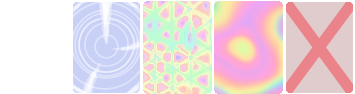
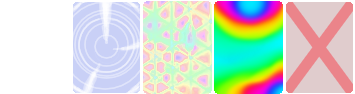
better polychrome + alpha mask

Changed region(s): [[0.5887, 0.0, 0.8056, 1.0]]

diff --git a/main.js b/main.js
@@ -343,6 +343,8 @@ const modifiers = {
 let modifierString = ', url(assets/Enhancers.png) -71px 0px';
 let modifierPostString = '';
 
+let modifierClass = '';
+
 const jmodifiers = {
   foil: false,
   holographic: false,
@@ -363,6 +365,8 @@ function jtoggleCardModifier(name) {
 }
 
 function setModifierString() {
+  modifierClass = '';
+
   if(modifiers.stone) {
     modifierString = ', url(assets/Enhancers.png) 142px 0';
   }
@@ -402,6 +406,7 @@ function setModifierString() {
     modifierPostString += 'url(assets/Editions.png) -142px 0, ';
   }
   else if(modifiers.polychrome) {
+    modifierClass = ' polychrome';
     modifierPostString += 'url(assets/Editions.png) -213px 0, ';
   }
   else if(modifiers.disabled) {
@@ -438,11 +443,11 @@ const jcardsDiv = document.getElementById('jokers');
 
 function cardString(i, j) {
   if(modifiers.stone) {
-    return `style="background: ` +
+    return `${modifierClass}" style="background: ` +
     `${modifierPostString}${modifierString.slice(2)}"`;
   }
   else {
-    return `style="background: ` +
+    return `${modifierClass}" style="background: ` +
     `${modifierPostString}url(assets/8BitDeck.png) ` +
     `-${71*j}px -${95*i}px${modifierString}"`;
   }
@@ -453,7 +458,7 @@ function redrawCards() {
   for(let i = 0; i < 4; i++) {
     txt += '<div>';
     for(let j = 0; j < 13; j++) {
-      txt += `<div class="tooltip"><div class="playingCard" ${cardString(i, j)} onclick="addCard(${i}, ${j})" onmousemove = 'hoverCard(event)' onmouseout = 'noHoverCard(event)'></div></div>`;
+      txt += `<div class="tooltip"><div class="playingCard${cardString(i, j)} onclick="addCard(${i}, ${j})" onmousemove = 'hoverCard(event)' onmouseout = 'noHoverCard(event)'></div></div>`;
     }
     txt += '</div>';
   }
@@ -461,6 +466,8 @@ function redrawCards() {
 }
 
 function jokerString(i, j, modifiers) {
+  let jmodifierClass = '';
+
   let jmodifierString = 'url(assets/Jokers.png) 0px -855px, ';
   let jmodifierPostString = '';
 
@@ -471,6 +478,7 @@ function jokerString(i, j, modifiers) {
     jmodifierPostString = 'url(assets/Editions.png) -142px 0, ';
   }
   else if(modifiers.polychrome) {
+    jmodifierClass = ' polychrome';
     jmodifierPostString = 'url(assets/Editions.png) -213px 0, ';
   }
   else if(modifiers.disabled) {
@@ -488,7 +496,7 @@ function jokerString(i, j, modifiers) {
     case '8,7': jmodifierString = `url(assets/Jokers.png) -${71*7}px -${95*9}px, `; break;
     case '12,4': jmodifierString = `url(assets/Jokers.png) -${71*2}px -${95*9}px, `; break;
   }
-  return `style="background: ${jmodifierPostString}${jmodifierString}url(assets/Jokers.png) -${71*j}px -${95*i}px"`;
+  return `${jmodifierClass}" style="mask-position:  -${71*j}px -${95*i}px; background: ${jmodifierPostString}${jmodifierString}url(assets/Jokers.png) -${71*j}px -${95*i}px"`;
 }
 
 function jredrawCards() {
@@ -500,7 +508,7 @@ function jredrawCards() {
       const title = (jokerTexts.length > i && jokerTexts[i].length > j) ? jokerTexts[i][j][0] : 'WIP';
       const description = (jokerTexts.length > i && jokerTexts[i].length > j) ? eval('`' + jokerTexts[i][j][1] + '`') : 'WIP';
       if(title.toLowerCase().indexOf(searchVal.toLowerCase()) >= 0 || description.replace(/\<[^\>]+\>/g,'').toLowerCase().indexOf(searchVal.toLowerCase()) >= 0) {
-        txt += `<div class='tooltip'><div class="jokerCard" ${jokerString(i, j, jmodifiers)} onclick="addJoker(${i}, ${j})" onmousemove = 'hoverCard(event)' onmouseout = 'noHoverCard(event)'></div><span class='tooltiptext'>` +
+        txt += `<div class='tooltip'><div class="jokerCard${jokerString(i, j, jmodifiers)} onclick="addJoker(${i}, ${j})" onmousemove = 'hoverCard(event)' onmouseout = 'noHoverCard(event)'></div><span class='tooltiptext'>` +
         `<span class='title'>${title}</span>` +
         `<span class='desc'><span class='descContent'>${description}</span></span>` +
         `</span></div>`;
@@ -601,7 +609,7 @@ function redrawPlayfield() {
 
   let txt = '';
   for(let id of bestJokers) {
-    txt += `<div class='tooltip'><div id="${id}" class="jokerCard" ${playfieldJokers[id].string} onclick="modifyJoker('${id}')" onmousemove = 'hoverCard(event)' onmouseout = 'noHoverCard(event)'></div>` +
+    txt += `<div class='tooltip'><div id="${id}" class="jokerCard${playfieldJokers[id].string} onclick="modifyJoker('${id}')" onmousemove = 'hoverCard(event)' onmouseout = 'noHoverCard(event)'></div>` +
     `<div class="removeJoker" onclick="removeJoker('${id}')">X</div>` +
     `<span class='tooltiptext'>` +
     `<span class='title'>${playfieldJokers[id].tooltip[0]}</span>` +
@@ -619,7 +627,7 @@ function redrawPlayfield() {
 
   txt = '';
   for(let id of bestHand) {
-    txt += `<div class="tooltip"><div id="p${id}" class="playfieldCard" ${playfieldCards[id].string} onclick="removeCard('${id}')" onmousemove = 'hoverCard(event)' onmouseout = 'noHoverCard(event)'></div>` +
+    txt += `<div class="tooltip"><div id="p${id}" class="playfieldCard${playfieldCards[id].string} onclick="removeCard('${id}')" onmousemove = 'hoverCard(event)' onmouseout = 'noHoverCard(event)'></div>` +
     `<div style="position: absolute; top: 100%; width: 100%;">` +
     `<div class="positionButtons">` +
     `<div class="lvlBtn" onclick="moveHandCardLeft('${id}')">&lt;</div>` +
@@ -637,7 +645,7 @@ function redrawPlayfield() {
   for(let id of Object.keys(playfieldCards).sort().reverse()) {
     if(bestHand.indexOf(id) >= 0) continue;
     if(id.indexOf('99') !== 0) continue;
-    txt += `<div class="tooltip"><div id="${id}" class="playfieldCard" ${playfieldCards[id].string} onclick="removeCard('${id}')" onmousemove = 'hoverCard(event)' onmouseout = 'noHoverCard(event)'></div>` +
+    txt += `<div class="tooltip"><div id="${id}" class="playfieldCard${playfieldCards[id].string} onclick="removeCard('${id}')" onmousemove = 'hoverCard(event)' onmouseout = 'noHoverCard(event)'></div>` +
     `<div style="position: absolute; top: 100%; width: 100%;">` +
     `<div class="positionButtons">` +
     `<div class="lvlBtn" onclick="moveCardUp('${id}')">^</div>` +
@@ -686,7 +694,7 @@ function redrawPlayfield() {
       for(let id of Object.keys(playfieldCards).sort().reverse()) {
         if(lowestCards.indexOf(id) < 0) continue;
         if(id === ignoreCard) continue;
-        txt += `<div class="tooltip"><div id="${id}" class="playfieldCard" ${playfieldCards[id].string} onclick="removeCard('${id}')" onmousemove = 'hoverCard(event)' onmouseout = 'noHoverCard(event)'></div>` +
+        txt += `<div class="tooltip"><div id="${id}" class="playfieldCard${playfieldCards[id].string} onclick="removeCard('${id}')" onmousemove = 'hoverCard(event)' onmouseout = 'noHoverCard(event)'></div>` +
         `<div style="position: absolute; top: 100%; width: 100%;">` +
         `<div class="positionButtons">` +
         `<div class="lvlBtn" onclick="moveCardUp('${id}')">^</div>` +
@@ -694,7 +702,7 @@ function redrawPlayfield() {
         `</div>`;
       }
 
-      txt += `<div class="tooltip"><div id="${ignoreCard}" class="playfieldCard" ${playfieldCards[ignoreCard].string} onclick="removeCard('${ignoreCard}')" onmousemove = 'hoverCard(event)' onmouseout = 'noHoverCard(event)'></div>` +
+      txt += `<div class="tooltip"><div id="${ignoreCard}" class="playfieldCard${playfieldCards[ignoreCard].string} onclick="removeCard('${ignoreCard}')" onmousemove = 'hoverCard(event)' onmouseout = 'noHoverCard(event)'></div>` +
       `<div style="position: absolute; top: 100%; width: 100%;">` +
       `<div class="positionButtons">` +
       `<div class="lvlBtn" onclick="moveCardUp('${ignoreCard}')">^</div>` +
@@ -707,7 +715,7 @@ function redrawPlayfield() {
     if(bestHand.indexOf(id) >= 0) continue;
     if(lowestCards.indexOf(id) >= 0) continue;
     if(id.indexOf('99') === 0) continue;
-    txt += `<div class="tooltip"><div id="${id}" class="playfieldCard" ${playfieldCards[id].string} onclick="removeCard('${id}')" onmousemove = 'hoverCard(event)' onmouseout = 'noHoverCard(event)'></div>` +
+    txt += `<div class="tooltip"><div id="${id}" class="playfieldCard${playfieldCards[id].string} onclick="removeCard('${id}')" onmousemove = 'hoverCard(event)' onmouseout = 'noHoverCard(event)'></div>` +
     `<div style="position: absolute; top: 100%; width: 100%;">` +
     `<div class="positionButtons">` +
     `<div class="lvlBtn" onclick="moveCardUp('${id}')">^</div>` +
@@ -807,7 +815,7 @@ function modifyJoker(id) {
 function updateModifyingJoker() {
   if(!playfieldJokers.hasOwnProperty(modifyingJoker)) return;
 
-  modifyJokerDiv.innerHTML = `<div><div class='tooltip'><div data-scale='2' class="jokerCard" ${playfieldJokers[modifyingJoker].string} onmousemove = 'hoverCard(event)' onmouseout = 'noHoverCard(event)'></div>` +
+  modifyJokerDiv.innerHTML = `<div><div class='tooltip'><div data-scale='2' class="jokerCard${playfieldJokers[modifyingJoker].string} onmousemove = 'hoverCard(event)' onmouseout = 'noHoverCard(event)'></div>` +
   `<span class='tooltiptext'>` +
   `<span class='title'>${playfieldJokers[modifyingJoker].tooltip[0]}</span>` +
   `<span class='desc'><span class='descContent'>${playfieldJokers[modifyingJoker].tooltip[1]}</span></span>` +

diff --git a/style.css b/style.css
@@ -316,7 +316,7 @@ html {
   position: absolute;
   left: 0;
   display: inline-block;
-  width: 100%;
+  width: 0;
   height: 100%;
   padding: 0;
   image-rendering: pixelated;
@@ -338,6 +338,10 @@ html {
   top: 0;
   background: inherit;
   position: absolute;
+
+  mask-image: url(assets/Jokers.png);
+  mask-position: inherit;
+  mask-mode: alpha;
 }
 
 .jokerCard:hover:after, .playingCard:hover:after, .jmodifierCard:hover:after, .modifierCard:hover:after, .playfieldCard:hover:after {
@@ -690,4 +694,12 @@ input {
 .jmodifierCard + .tooltiptext {
   left: -1em;
   translate: -50%;
+}
+
+.polychrome:after {
+  background-blend-mode: normal, color;
+}
+
+.jokerCard.polychrome:after {
+  background-blend-mode: color;
 }

diff --git a/hoverCard.js b/hoverCard.js
@@ -6,7 +6,13 @@ function transforms(x, y, el) {
   let box = el.getBoundingClientRect();
 
   let calcX = -(y - box.y - (box.height / 2)) / (el.dataset.scale == 2 ? constrain * 2 : constrain);
-  let calcY = (x - box.x - (box.width / 2)) / (el.dataset.scale == 2 ? constrain * 2 : constrain);
+  let calcY = (x - box.x - ((box.width ? box.width : 71) / 2)) / (el.dataset.scale == 2 ? constrain * 2 : constrain);
+
+  if(box.width === 0) {
+    return `translate(35.5px) perspective(${94}px) ` +
+    `rotateX(${calcX}deg) ` +
+    `rotateY(${calcY}deg) translate(-35.5px)`;
+  }
 
   return `perspective(${94}px) ` +
   `rotateX(${calcX}deg) ` +
